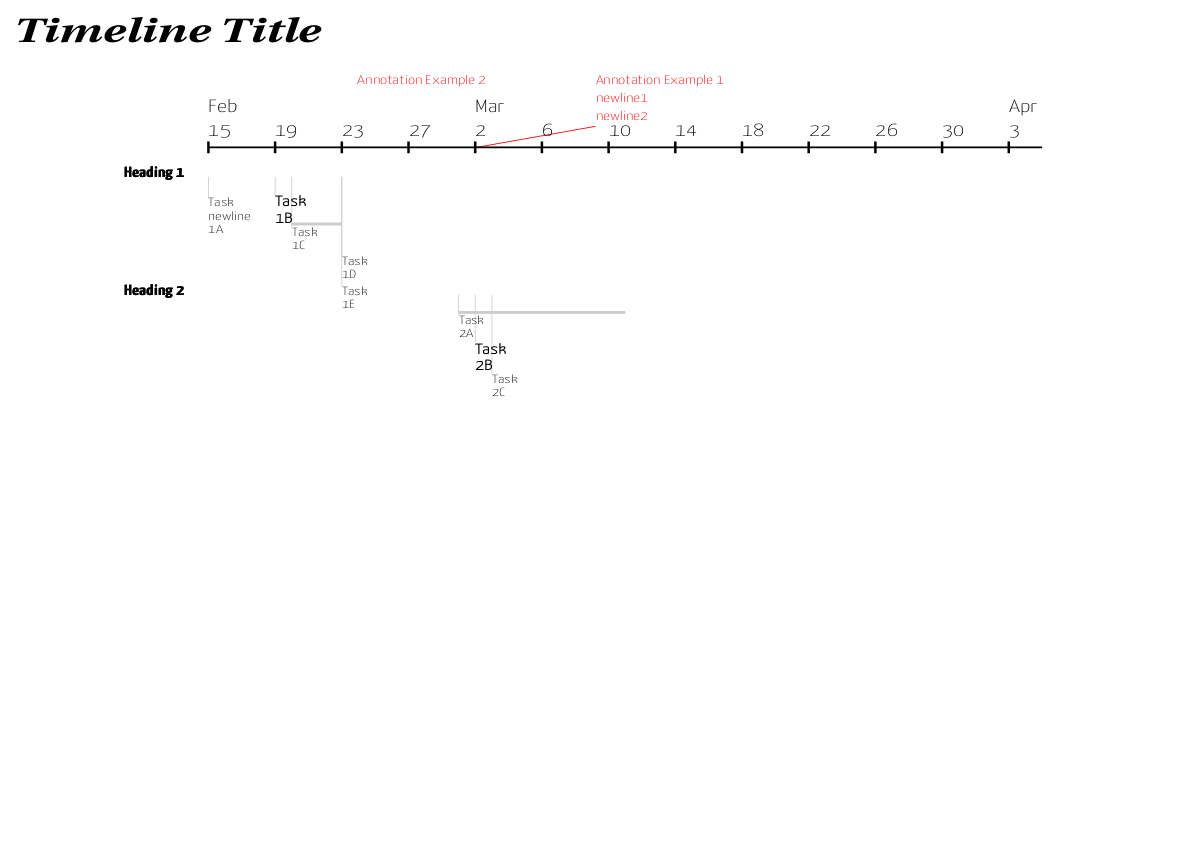
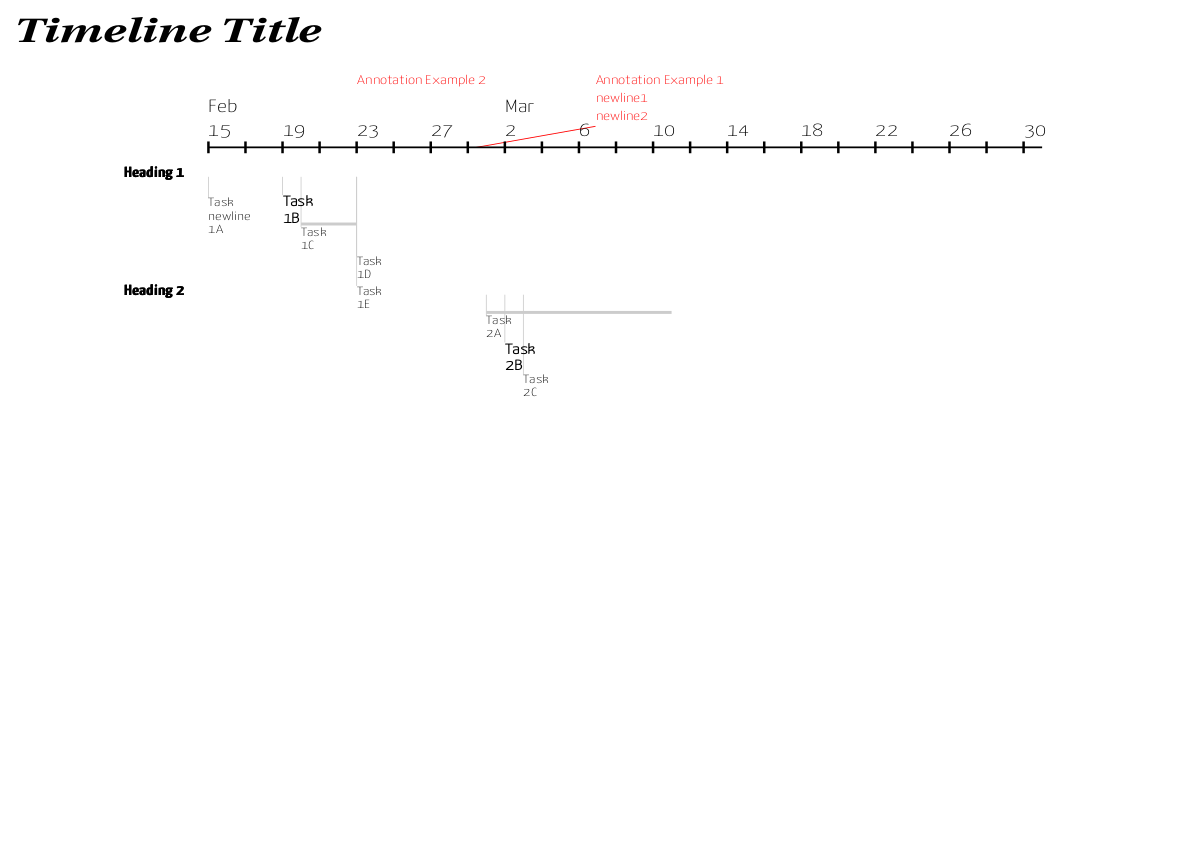
added ability to change interval of date labelling on timeline no longer necessary for there to be a label at each time tick on timeline

diff --git a/timeline.py b/timeline.py
@@ -3,6 +3,7 @@ import cairo
 import calendar
 import datetime
 from dateutil.rrule import rrule, MONTHLY, DAILY
+# Examples
 TITLE = "Timeline Title"
 ANNOTATIONS = ((("Annotation Example 1\nnewline1\nnewline2", 0.5, 0.1),
                 ((0.5, 0.15, 0.4, 0.175),)),
@@ -19,17 +20,18 @@ TASKS = \
        ("Task", "2B", (2, 3), 0, True),
        ("Task", "2C", (3, 3)))))
 class Annotation:
-    def __init__(self, surface, font="Yanone Kaffeesatz Thin", fontSize=0.015,
+    def __init__(self, surface, annotations,
+                 font="Yanone Kaffeesatz Thin", fontSize=0.015,
                  color=(1, 0, 0), lineWidth=0.001):
         self.context = surface.context()
         self.context.set_source_rgb(*color)
         self.context.select_font_face(font)
         self.context.set_font_size(fontSize)
         self.context.set_line_width(lineWidth)
-        for a in ANNOTATIONS:
+        for a in annotations:
             for line in a[1]:
                 self.draw_line(*line)
-        for a in ANNOTATIONS:
+        for a in annotations:
             if a[0] != ():
                 self.add_text(*a[0])
     def add_text(self, text, x, y0, lineSpacing=1.5):
@@ -84,26 +86,12 @@ class TimeLine:
     def __init__(self, surface, translation=(0.25, 0.25), scale=0.7):
         self.surface = surface
         self.translation, self.scale = translation, scale
-    def draw(self, surface, font="Yanone Kaffeesatz Thin", fontSize=0.03,
-             lineWidth=0.003, lineColor=(0, 0, 0), textSep=0.01,
-             coarseness=4, timeframe=datetime.timedelta(days=50),
-             tickHeight=0.01, start=datetime.datetime(2020, 2, 15),
-             monthTextSep=0.04):
-        context = self.context()
-        context.select_font_face(font)
-        context.set_font_size(fontSize)
-        context.set_line_width(lineWidth)
-        context.set_source_rgb(*lineColor)
-
-        self._horizontal_line(context)
-        return self._vertical_steps(context, coarseness, timeframe, textSep,
-                                    tickHeight, start, monthTextSep)
     def _horizontal_line(self, context):
         context.move_to(0, 0)
         context.line_to(1, 0)
         context.stroke()
     def _vertical_steps(self, context, coarseness, timeframe, textSep,
-                        tickHeight, start, monthTextSep):
+                        tickHeight, start, monthTextSep, tickLabelInterval):
         dt = 1 / float(timeframe.days)
         dx = float(coarseness) * dt
         days = [(t.day, t.month) for t in rrule(DAILY, interval=coarseness,
@@ -114,14 +102,30 @@ class TimeLine:
             context.line_to(i * dx,  tickHeight)
             context.stroke()
             context.move_to(i * dx, -tickHeight - textSep)
-            context.show_text(str(days[i][0]))
+            if i % tickLabelInterval == 0:
+                context.show_text(str(days[i][0]))
             context.move_to(i * dx, -tickHeight - textSep - monthTextSep)
-            if i - 1 < 0 or days[i - 1][1] < days[i][1]:
+            if (i - 1 < 0) or (days[i - 1][1] < days[i][1]):
                 context.show_text(calendar.month_abbr[days[i][1]])
         return dict([((t.day, t.month), (t - start).days * dt)
                      for t in rrule(DAILY,
                                     dtstart=start,
                                     until=(start + timeframe))])
+    def draw(self, surface, font="Yanone Kaffeesatz Thin", fontSize=0.03,
+             lineWidth=0.003, lineColor=(0, 0, 0), textSep=0.01,
+             coarseness=2, timeframe=datetime.timedelta(days=45),
+             tickHeight=0.01, start=datetime.datetime(2020, 2, 15),
+             monthTextSep=0.04, tickLabelInterval=2):
+        context = self.context()
+        context.select_font_face(font)
+        context.set_font_size(fontSize)
+        context.set_line_width(lineWidth)
+        context.set_source_rgb(*lineColor)
+
+        self._horizontal_line(context)
+        return self._vertical_steps(context, coarseness, timeframe, textSep,
+                                    tickHeight, start, monthTextSep,
+                                    tickLabelInterval)
     def context(self, width=None, height=None):
         context = self.surface.context(width, height, scale=self.scale)
         context.translate(*self.translation)
@@ -185,17 +189,17 @@ class Tasks:
         elif render == "text":
             self._set_task_text(text, annotation, x, y, height)
         return self.height
-def main():
+def main(title, annotations, tasks):
     with Surface() as surface:
-        surface = surface.add_title(surface, TITLE)
-        Annotation(surface)
+        surface = surface.add_title(surface, title)
+        Annotation(surface, annotations)
         timeline = TimeLine(surface)
         xPositions = timeline.draw(surface)
         for render in ("lines", "text"):
             vPos = 0.05
-            for heading in TASKS:
+            for heading in tasks:
                 h = Tasks(timeline, xPositions, heading[0], vPos)
                 for task in heading[1]:
                     vPos = h.add_task(*task, render=render)
 if __name__ == "__main__":
-    main()
+    main(TITLE, ANNOTATIONS, TASKS)
